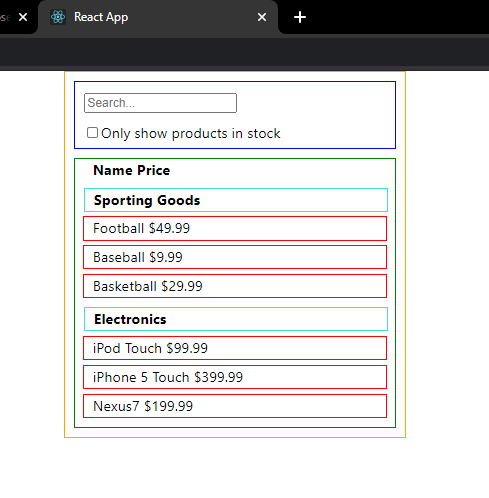
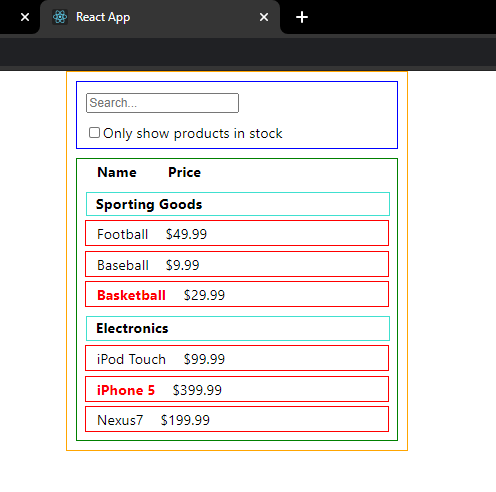
second version

diff --git a/src/pages/products/components/product-row/product-row.comp.jsx b/src/pages/products/components/product-row/product-row.comp.jsx
@@ -2,34 +2,91 @@ import React from 'react';
 
 import './product-row.style.css';
 import '../product-category-row/product-category-row.style.css';
-import '../product-row/product-row.style.css';
+
 const ProductRow = () =>{
     return(
         <div>
-            <div className="name">Name   Price</div>
+            <div className="name">
+                <table>
+                    <tr>
+                        <th>Name</th>
+                        <td className="table">
+                            <th>Price</th>
+                        </td>
+                    </tr>
+                </table>
+            </div>
             <div className="product-category-row-container">
                 <div className="name1">Sporting Goods</div>
             </div>
             <div className="product-row-container">
-                <div className="name2">Football  $49.99 </div>
+                <div className="name2">
+            <table>
+                    <tr>
+                        <th className="style">Football</th>
+                        <td className="table1">
+                            <th className="style">$49.99</th>
+                        </td>
+                    </tr>
+                </table> </div>
             </div>   
             <div className="product-row-container">
-                <div className="name2">Baseball  $9.99</div>
+                <div className="name2">
+                <table>
+                    <tr>
+                        <th className="style">Baseball</th>
+                        <td className="table1">
+                            <th className="style">$9.99</th>
+                        </td>
+                    </tr>
+                </table></div>
             </div>   
             <div className="product-row-container">
-                <div className="name2">Basketball  $29.99</div>
+                <div className="name2">
+                <table>
+                    <tr>
+                        <th className="style1">Basketball</th>
+                        <td className="table1">
+                            <th className="style">$29.99</th>
+                        </td>
+                    </tr>
+                </table> </div>
             </div>
             <div className="product-category-row-container">
                 <div className="name1">Electronics  </div>
             </div>
             <div className="product-row-container">
-                <div className="name2">iPod Touch $99.99</div>
+                <div className="name2">
+                <table>
+                    <tr>
+                        <th className="style">iPod Touch</th>
+                        <td className="table1">
+                            <th className="style">$99.99</th>
+                        </td>
+                    </tr>
+                </table> </div>
             </div>   
             <div className="product-row-container">
-                <div className="name2">iPhone 5 Touch $399.99</div>
+                <div className="name2">
+                <table>
+                    <tr>
+                        <th className="style1">iPhone 5</th>
+                        <td className="table1">
+                            <th className="style">$399.99</th>
+                        </td>
+                    </tr>
+                </table></div>
             </div>   
             <div className="product-row-container">
-                <div className="name2">Nexus7  $199.99</div>
+                <div className="name2">
+                <table>
+                    <tr>
+                        <th className="style">Nexus7</th>
+                        <td className="table1">
+                            <th className="style">$199.99</th>
+                        </td>
+                    </tr>
+                </table> </div>
             </div>
         
         

diff --git a/src/pages/products/components/product-row/product-row.style.css b/src/pages/products/components/product-row/product-row.style.css
@@ -20,6 +20,24 @@
 .name2{
         text-align: left;
         margin-left: 10px;
+        font-weight: normal;
         
 }
 
+.table{
+        padding-left: 30px;
+}
+
+.table1{
+        padding-left: 14px;
+        
+}
+
+.style{
+        font-weight: normal;
+}
+
+.style1{
+        font-weight: bold;
+        color: red;
+}

diff --git a/src/pages/products/components/product-table/product-table.style.css b/src/pages/products/components/product-table/product-table.style.css
@@ -1,7 +1,7 @@
 .product-table-container{
     width: 95%;
     margin: 0 auto;
-    min-height: 300px;
+    min-height: 315px;
     border:1px solid green;
     margin-top: 10px;
     margin-bottom: 10px;

diff --git a/src/pages/products/components/filterable-product-table/filterable-product-table.style.css b/src/pages/products/components/filterable-product-table/filterable-product-table.style.css
@@ -1,6 +1,6 @@
 .filterable-product-table-container {
     width: 25%;
     margin: 0 auto;
-    min-height: 340px;
+    min-height: 370px;
     border: 1px solid orange;
 }
